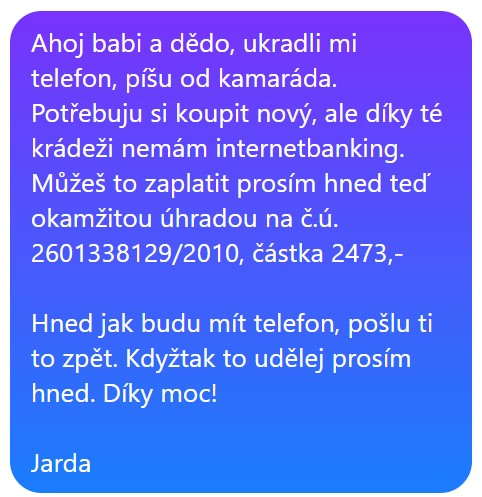
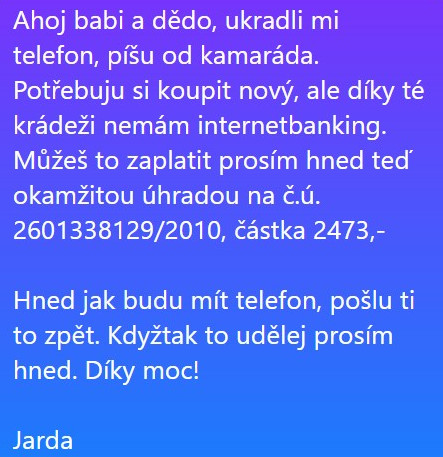
Update texts

diff --git a/resources/js/web/components/Quiz/Quiz.vue b/resources/js/web/components/Quiz/Quiz.vue
@@ -6,7 +6,8 @@
         <div class="grid grid-cols-6 gap-x-8">
             <div class="md:col-span-3 col-span-6 p-2 md:p-6">
                 <h1 v-if="question.perex">{{ question.perex }}</h1>
-                <div class="text-xl md:text-2xl md:font-semibold md:mb-10 question-description" v-html="question.description"></div>
+                <div class="text-xl md:text-2xl md:mb-10 question-description"
+                     v-html="question.description"></div>
             </div>
 
             <div class="bg-gray-50 shadow-lg p-4 rounded-lg col-span-6 md:col-span-3 p-1 md:p-6">
@@ -23,8 +24,9 @@
                     </button-blue>
                 </div>
 
-                <div v-if="!evaluationState.loading && !evaluationState.success" class="flex justify-center items-center invisible md:visible mt-10">
-                    <img src="/images/thinking-grandparents.png" class="object-center" />
+                <div v-if="!evaluationState.loading && !evaluationState.success"
+                     class="flex justify-center items-center invisible md:visible mt-10">
+                    <img src="/images/thinking-grandparents.png" class="object-center"/>
                 </div>
 
                 <div v-if="evaluationState.loading">
@@ -32,6 +34,16 @@
                 </div>
 
                 <div v-if="!evaluationState.loading && evaluationState.success">
+                    <hr>
+                    <div class="flex my-3 lg:text-3xl border-solid border-2 p-3 rounded-lg text-center"
+                         :class="{'text-green-700 border-green-700': evaluation.rightAnswer, 'text-red-700 border-red-700':!evaluation.rightAnswer}">
+                        <div class="mx-2 align-middle">
+                            <icon-hand-thumb-up v-if="evaluation.rightAnswer" class="h-10 w-10"/>
+                            <icon-hand-raised v-else class="h-10 w-10"/>
+                        </div>
+                        <div class="font-bold underline">{{ evaluation.title }}</div>
+                    </div>
+
                     <div class="text-xl" v-html="evaluation.text"></div>
 
                     <div class="mt-10">
@@ -57,6 +69,8 @@ import ButtonBlue from '../ButtonBlue.vue';
 import ButtonBlueWithArrowRight from '../ButtonBlueWithArrowRight.vue';
 import QuestionLoader from './QuestionLoader.vue';
 import moment from 'moment';
+import IconHandThumbUp from '../Icons/IconHandThumbUp.vue';
+import IconHandRaised from "../Icons/IconHandRaised.vue";
 
 const EventBus = inject('EventBus');
 
@@ -102,6 +116,7 @@ const endQuiz = () => {
 const clickedButtonId = ref(null);
 
 const clearEvaluation = () => {
+    evaluation.value.title = null;
     evaluation.value.text = null;
     evaluation.value.hasAnotherQuestion = false;
     evaluation.value.rightAnswer = null;
@@ -141,6 +156,7 @@ const selectOption = async (optionId) => {
     evaluationState.value.loading = true;
     const evaluationData = await storeRespondentAnswer(question.value.id, optionId, seconds);
 
+    evaluation.value.title = evaluationData.evaluationTitle;
     evaluation.value.text = evaluationData.evaluation;
     evaluation.value.hasAnotherQuestion = !evaluationData.end;
     evaluation.value.rightAnswer = evaluationData.rightAnswer;

diff --git a/resources/js/web/components/Quiz/QuizEnd.vue b/resources/js/web/components/Quiz/QuizEnd.vue
@@ -1,14 +1,19 @@
 <template>
-    <p class="lg:text-3xl text-2xl text-center mb-3 font-bold">
+    <p class="lg:text-3xl text-2xl text-center mb-3 font-bold mb-8">
         Závěrečné vyhodnocení
     </p>
 
     <loading v-if="!summaryLoaded"/>
 
     <div v-if="summaryLoaded" class="lg:text-xl">
-        <div v-if="summary.right.length" class="shadow-green-600 lg:mb-8">
-            <h1 class="max-w-2xl lg:mb-8 mb-2 text-2xl font-extrabold leading-none tracking-tight xl:text-3xl text-green-600">
-                + Pozitiva
+        <div v-if="summary.right.length" class="shadow-green-700 lg:mb-8 border-green-700 border-2 p-3 rounded-lg">
+            <h1 class="max-w-2xl lg:mb-8 mb-2 text-2xl font-extrabold leading-none tracking-tight xl:text-3xl text-green-700">
+                <div class="flex">
+                    <div class="mx-2 align-middle">
+                        <icon-hand-thumb-up class="h-10 w-10"/>
+                    </div>
+                    <div class="font-bold underline">Pozitiva</div>
+                </div>
             </h1>
 
             <ul class="list-disc lg:mx-10 ml-5">
@@ -16,9 +21,14 @@
             </ul>
         </div>
 
-        <div v-if="summary.wrong.length">
-            <h1 class="max-w-2xl lg:mb-8 mb-2 text-2xl font-extrabold leading-none tracking-tight xl:text-3xl text-red-600">
-                - Negativa
+        <div v-if="summary.wrong.length" class="shadow-red-700 lg:mb-8 border-red-700 border-2 p-3 rounded-lg">
+            <h1 class="max-w-2xl lg:mb-8 mb-2 text-2xl font-extrabold leading-none tracking-tight xl:text-3xl text-red-700">
+                <div class="flex">
+                    <div class="mx-2 align-middle">
+                        <icon-hand-raised class="h-10 w-10"/>
+                    </div>
+                    <div class="font-bold underline">Negativa</div>
+                </div>
             </h1>
 
             <ul class="list-disc lg:mx-10 ml-5">
@@ -31,7 +41,9 @@
 <script setup>
 import {getRespondentSummary} from '../../services/QuizAPI.js';
 import {onMounted, ref} from 'vue';
-import Loading from "../Loading.vue";
+import Loading from '../Loading.vue';
+import IconHandThumbUp from '../Icons/IconHandThumbUp.vue';
+import IconHandRaised from '../Icons/IconHandRaised.vue';
 
 const summary = ref([]);
 const summaryLoaded = ref(false);

diff --git a/resources/js/web/components/Icons/IconHandThumbUp.vue b/resources/js/web/components/Icons/IconHandThumbUp.vue
@@ -1,0 +1,6 @@
+<template>
+    <svg xmlns="http://www.w3.org/2000/svg" viewBox="0 0 24 24" fill="currentColor" class="size-6">
+        <path
+            d="M7.493 18.5c-.425 0-.82-.236-.975-.632A7.48 7.48 0 0 1 6 15.125c0-1.75.599-3.358 1.602-4.634.151-.192.373-.309.6-.397.473-.183.89-.514 1.212-.924a9.042 9.042 0 0 1 2.861-2.4c.723-.384 1.35-.956 1.653-1.715a4.498 4.498 0 0 0 .322-1.672V2.75A.75.75 0 0 1 15 2a2.25 2.25 0 0 1 2.25 2.25c0 1.152-.26 2.243-.723 3.218-.266.558.107 1.282.725 1.282h3.126c1.026 0 1.945.694 2.054 1.715.045.422.068.85.068 1.285a11.95 11.95 0 0 1-2.649 7.521c-.388.482-.987.729-1.605.729H14.23c-.483 0-.964-.078-1.423-.23l-3.114-1.04a4.501 4.501 0 0 0-1.423-.23h-.777ZM2.331 10.727a11.969 11.969 0 0 0-.831 4.398 12 12 0 0 0 .52 3.507C2.28 19.482 3.105 20 3.994 20H4.9c.445 0 .72-.498.523-.898a8.963 8.963 0 0 1-.924-3.977c0-1.708.476-3.305 1.302-4.666.245-.403-.028-.959-.5-.959H4.25c-.832 0-1.612.453-1.918 1.227Z"/>
+    </svg>
+</template>

diff --git a/resources/js/web/components/Icons/IconHandRaised.vue b/resources/js/web/components/Icons/IconHandRaised.vue
@@ -1,0 +1,6 @@
+<template>
+    <svg xmlns="http://www.w3.org/2000/svg" viewBox="0 0 24 24" fill="currentColor" class="size-6">
+        <path
+            d="M10.5 1.875a1.125 1.125 0 0 1 2.25 0v8.219c.517.162 1.02.382 1.5.659V3.375a1.125 1.125 0 0 1 2.25 0v10.937a4.505 4.505 0 0 0-3.25 2.373 8.963 8.963 0 0 1 4-.935A.75.75 0 0 0 18 15v-2.266a3.368 3.368 0 0 1 .988-2.37 1.125 1.125 0 0 1 1.591 1.59 1.118 1.118 0 0 0-.329.79v3.006h-.005a6 6 0 0 1-1.752 4.007l-1.736 1.736a6 6 0 0 1-4.242 1.757H10.5a7.5 7.5 0 0 1-7.5-7.5V6.375a1.125 1.125 0 0 1 2.25 0v5.519c.46-.452.965-.832 1.5-1.141V3.375a1.125 1.125 0 0 1 2.25 0v6.526c.495-.1.997-.151 1.5-.151V1.875Z"/>
+    </svg>
+</template>

diff --git a/resources/js/web/components/Quiz/RespondentIdentification.vue b/resources/js/web/components/Quiz/RespondentIdentification.vue
@@ -1,9 +1,6 @@
 <template>
     <p class="lg:text-3xl text-center mb-3">
-        Děkujeme za vyplnění ankety.
-    </p>
-    <p class="lg:text-3xl text-center font-bold mb-3">
-        Před odesláním, prosím, vyplňte tyto údaje. Děkujeme.
+        Skvělá práce! Už jste skoro u konce. Ještě prosím zaklikněte své pohlaví a věk, a hned přejdeme k výsledkům.
     </p>
 
     <div class="md:text-lg lg:text-xl">

diff --git a/resources/views/web/homepage.blade.php b/resources/views/web/homepage.blade.php
@@ -8,18 +8,9 @@
                     {{ __('homepage.title') }}
                 </h1>
 
-                <p class="max-w-2xl mb-6 lg:mb-8">{!! __('homepage.description') !!}</p>
-
-                <p class="font-bold">{{ __('homepage.what_will_you_learn.title') }}</p>
-
-                <ul class="list-disc ml-8 mt-3">
-                    <li>{{ __('homepage.what_will_you_learn.list_1') }}</li>
-                    <li>{{ __('homepage.what_will_you_learn.list_2') }}</li>
-                    <li>{{ __('homepage.what_will_you_learn.list_3') }}</li>
-                    <li>{{ __('homepage.what_will_you_learn.list_4') }}</li>
-                </ul>
-
-                <p class="mt-5">{{ __('homepage.everything_is_done_anonymously') }}</p>
+                <p class="max-w-2xl mb-6 lg:mb-8">
+                    Naučíme vás, jak se bránit podvodníkům a bezpečně používat internet i telefon. Praktické tipy vycházejí z reálných situací. Kurz je anonymní a zaměřený na vaši ochranu.
+                </p>
 
                 <p class="text-center mt-8">
                     <a href="{{ route('web.quiz.run') }}"

diff --git a/database/migrations/2024_11_29_204355_question_option_evaluation_h_eader.php b/database/migrations/2024_11_29_204355_question_option_evaluation_h_eader.php
@@ -1,0 +1,21 @@
+<?php
+
+use Illuminate\Database\Migrations\Migration;
+use Illuminate\Database\Schema\Blueprint;
+use Illuminate\Support\Facades\Schema;
+
+return new class extends Migration {
+    public function up(): void
+    {
+        Schema::table('questions_options', function (Blueprint $table) {
+            $table->text('evaluation_title')->after('right')->nullable(false)->default('');
+        });
+    }
+
+    public function down(): void
+    {
+        Schema::table('questions_options', function (Blueprint $table) {
+            $table->dropColumn('evaluation_title');
+        });
+    }
+};

diff --git a/app/Models/QuestionOption.php b/app/Models/QuestionOption.php
@@ -13,6 +13,7 @@ use Illuminate\Database\Eloquent\Relations\BelongsTo;
  * @property string $description
  * @property float $weight
  * @property boolean $right
+ * @property string $evaluation_title
  * @property string $evaluation
  * @property string $summary
  * @property int $question_id
@@ -33,6 +34,7 @@ class QuestionOption extends Model
         'description',
         'weight',
         'evaluation',
+        'evaluation_title',
     ];
 
     protected $casts = [

diff --git a/database/factories/QuestionOptionFactory.php b/database/factories/QuestionOptionFactory.php
@@ -17,6 +17,7 @@ class QuestionOptionFactory extends Factory
         return [
             'description' => $this->faker->text,
             'evaluation' => $this->faker->text,
+            'evaluationTitle' => $this->faker->text,
             'summary' => $this->faker->text,
             'name' => $this->faker->word,
             'right' => $this->faker->boolean,

diff --git a/app/Http/Controllers/Web/Quiz/AnswerController.php b/app/Http/Controllers/Web/Quiz/AnswerController.php
@@ -40,6 +40,7 @@ class AnswerController extends ApiController
         return new ArrayResource([
             'end' => $respondent->isAllQuizQuestionsAnswered(),
             'evaluation' => $option->evaluation,
+            'evaluationTitle' => $option->evaluation_title,
             'rightAnswer' => $option->right,
         ]);
     }
